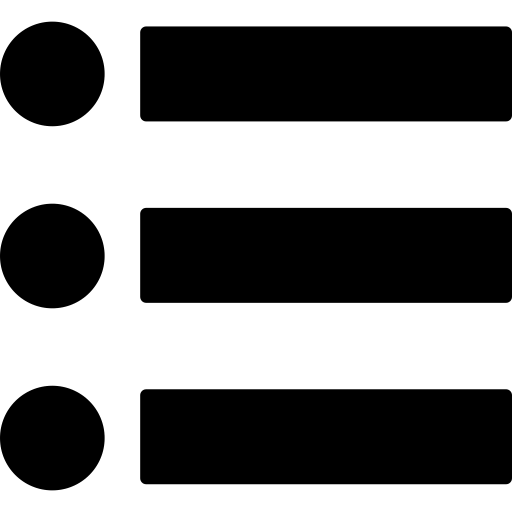
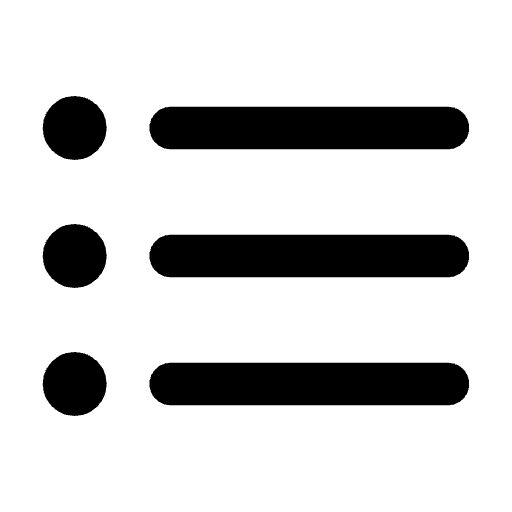
updated nav bar

diff --git a/_includes/header.html b/_includes/header.html
@@ -12,7 +12,7 @@
       <nav class="top-links">
         <!-- left -->
         <a href="https://github.com/ramosrenzo/COVID-LLM" target="_blank">
-            <img src="assets/github-mark.png" width="40px" alt="GitHub"/>
+            <img src="assets/github-mark.png" width="40px" height="40px" alt="GitHub"/>
         </a>
         <a href="https://drive.google.com/file/d/1EQjnjzPm0U0Nj1R9L_x7XSvuHDGABfT3/view" target="_blank">
             Report

diff --git a/index.md b/index.md
@@ -323,6 +323,7 @@ was assessed using (A) AUROC and (B) AUPRC.</p>
         #toc {
             visibility: hidden;
             right: -300px;
+            width: 220px;
         }
 
         .sidebar-active #toc {
